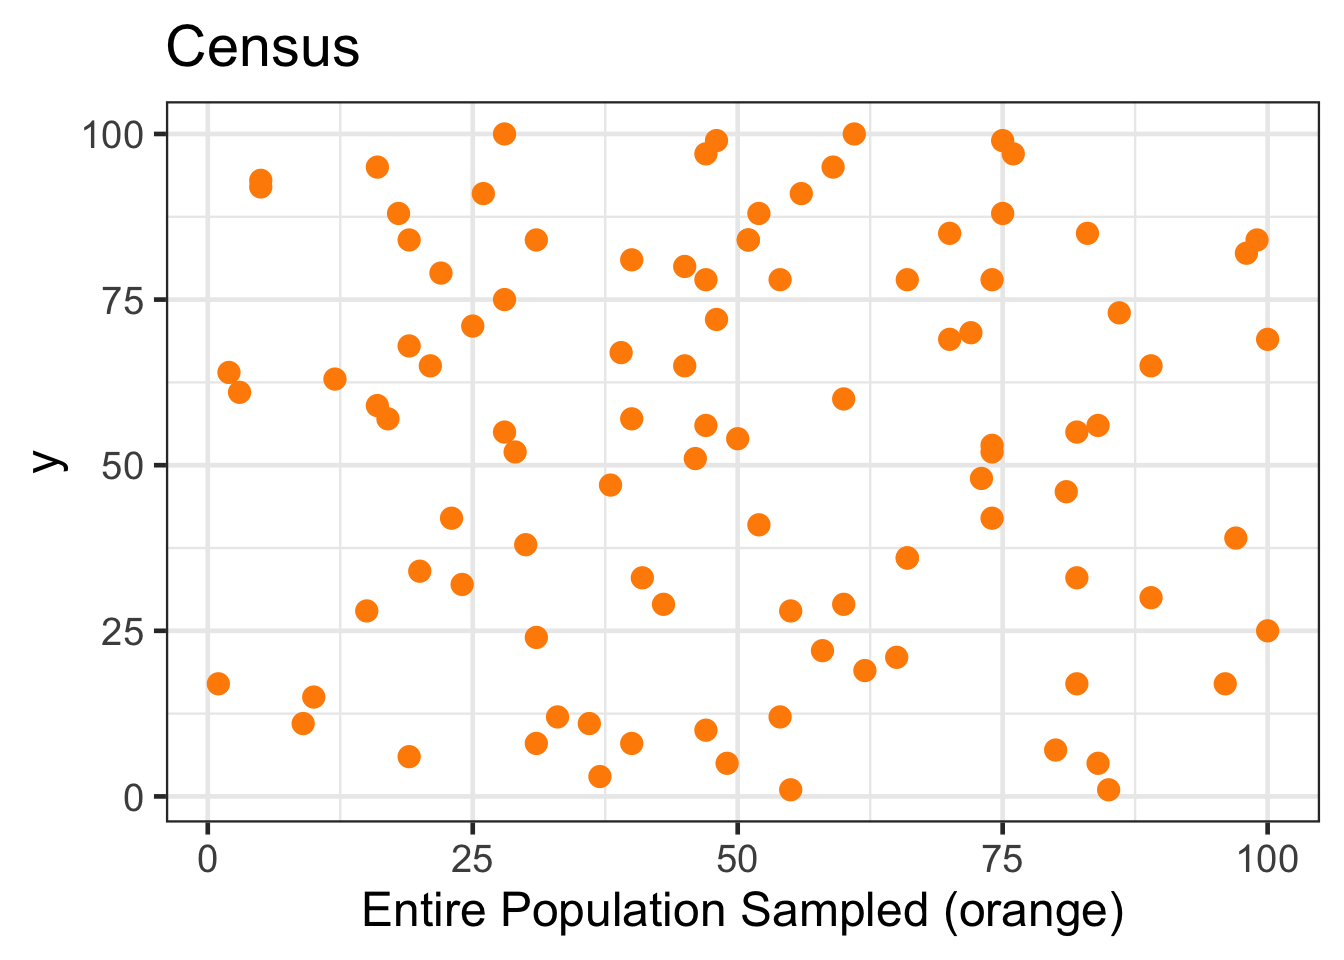
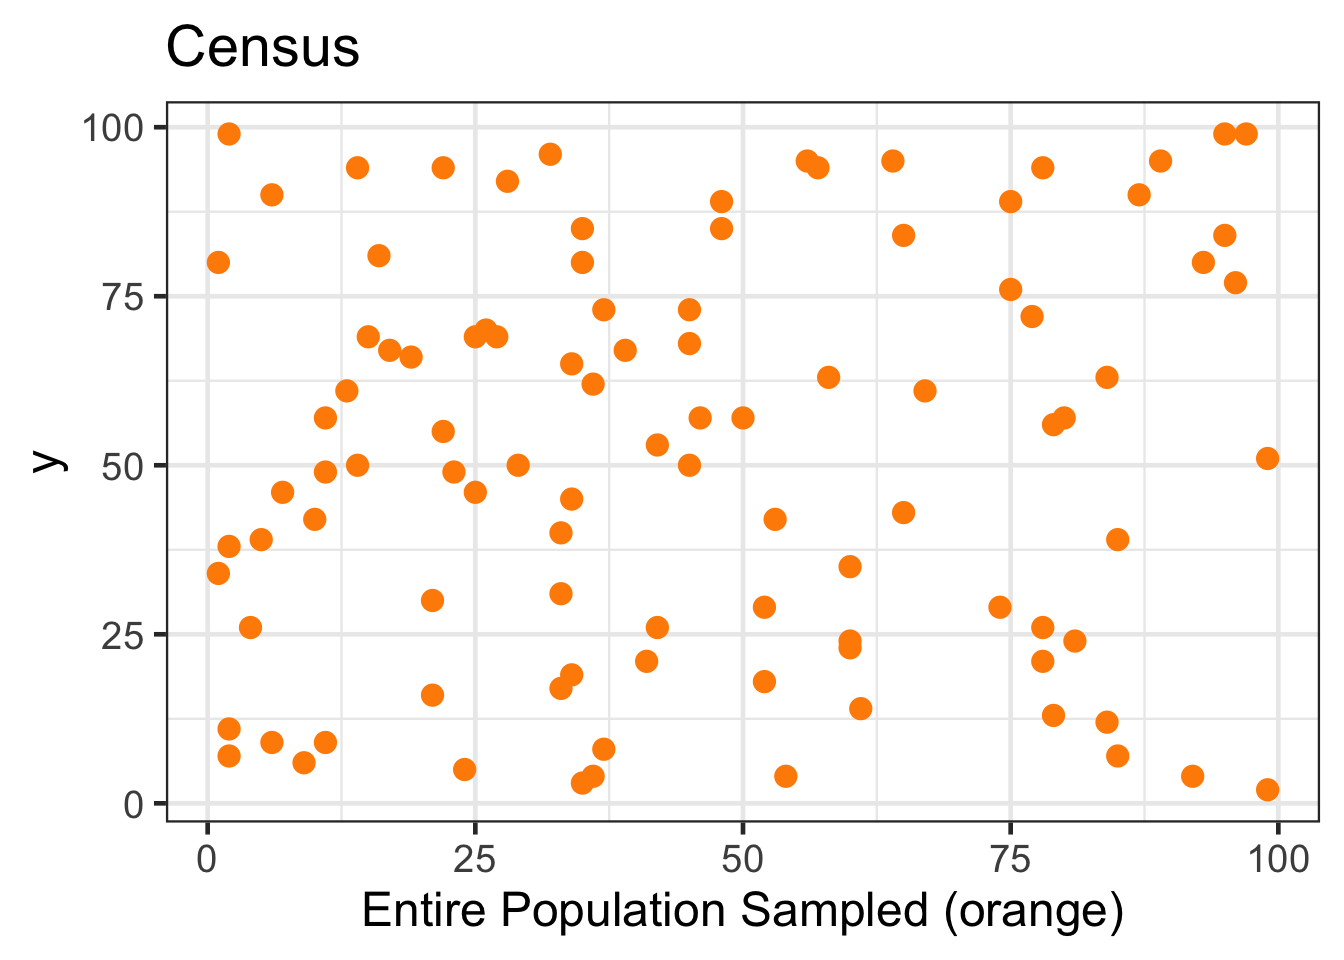
Remove seed set

diff --git a/01_IntroToData.html b/01_IntroToData.html
@@ -114,7 +114,7 @@ pre > code.sourceCode > span > a:first-child::before { text-decoration: underlin
 
 </div>
 <script type="webr-1-contents">
[2 lines of base64/hex data omitted]
 </script>
 </div>
 </div>
@@ -124,7 +124,7 @@ eyJjb2RlIjoid2Vicjo6aW5zdGFsbChcImdyYWRldGhpc1wiLCBxdWlldCA9IFRSVUUpXG5saWJyYXJ5
 
 </div>
 <script type="webr-2-contents">
[2 lines of base64/hex data omitted]
 </script>
 </div>
 </div>
@@ -134,7 +134,7 @@ eyJjb2RlIjoiXG5saWJyYXJ5KGh0bWx0b29scylcbm9rX3Jlc3BvbnNlIDwtIGZ1bmN0aW9uKHJlc3Bv
 
 </div>
 <script type="webr-3-contents">
[2 lines of base64/hex data omitted]
 </script>
 </div>
 </div>
@@ -144,7 +144,7 @@ eyJjb2RlIjoiXG5va19jaGVja2JveCA8LSBmdW5jdGlvbihyZXNwb25zZSwgbikge1xuICBpZiAoaXMu
 
 </div>
 <script type="webr-4-contents">
[2 lines of base64/hex data omitted]
 </script>
 </div>
 </div>
@@ -172,43 +172,43 @@ eyJjb2RlIjoiXG5ub3JtYWxpemVfY2hlY2tib3hfcmVzcG9uc2UgPC0gZnVuY3Rpb24oeCkge1xuICBy
 <tbody>
 <tr class="odd">
 <td style="text-align: right;">7129300520</td>
-<td style="text-align: right;">2</td>
+<td style="text-align: right;">7</td>
 <td style="text-align: right;">221900</td>
 <td style="text-align: right;">1180</td>
 <td style="text-align: right;">5650</td>
 <td style="text-align: right;">0</td>
-<td style="text-align: left;">shingles</td>
+<td style="text-align: left;">vinyl siding</td>
 </tr>
 <tr class="even">
 <td style="text-align: right;">6414100192</td>
-<td style="text-align: right;">9</td>
+<td style="text-align: right;">4</td>
 <td style="text-align: right;">538000</td>
 <td style="text-align: right;">2570</td>
 <td style="text-align: right;">7242</td>
 <td style="text-align: right;">0</td>
-<td style="text-align: left;">shingles</td>
+<td style="text-align: left;">vinyl siding</td>
 </tr>
 <tr class="odd">
 <td style="text-align: right;">5631500400</td>
-<td style="text-align: right;">2</td>
+<td style="text-align: right;">12</td>
 <td style="text-align: right;">180000</td>
 <td style="text-align: right;">770</td>
 <td style="text-align: right;">10000</td>
 <td style="text-align: right;">0</td>
-<td style="text-align: left;">vinyl siding</td>
+<td style="text-align: left;">brick</td>
 </tr>
 <tr class="even">
 <td style="text-align: right;">2487200875</td>
-<td style="text-align: right;">8</td>
+<td style="text-align: right;">11</td>
 <td style="text-align: right;">604000</td>
 <td style="text-align: right;">1960</td>
 <td style="text-align: right;">5000</td>
 <td style="text-align: right;">0</td>
-<td style="text-align: left;">brick</td>
+<td style="text-align: left;">vinyl siding</td>
 </tr>
 <tr class="odd">
 <td style="text-align: right;">1954400510</td>
-<td style="text-align: right;">5</td>
+<td style="text-align: right;">6</td>
 <td style="text-align: right;">510000</td>
 <td style="text-align: right;">1680</td>
 <td style="text-align: right;">8080</td>
@@ -217,7 +217,7 @@ eyJjb2RlIjoiXG5ub3JtYWxpemVfY2hlY2tib3hfcmVzcG9uc2UgPC0gZnVuY3Rpb24oeCkge1xuICBy
 </tr>
 <tr class="even">
 <td style="text-align: right;">7237550310</td>
-<td style="text-align: right;">4</td>
+<td style="text-align: right;">11</td>
 <td style="text-align: right;">1225000</td>
 <td style="text-align: right;">5420</td>
 <td style="text-align: right;">101930</td>
@@ -226,16 +226,16 @@ eyJjb2RlIjoiXG5ub3JtYWxpemVfY2hlY2tib3hfcmVzcG9uc2UgPC0gZnVuY3Rpb24oeCkge1xuICBy
 </tr>
 <tr class="odd">
 <td style="text-align: right;">1321400060</td>
-<td style="text-align: right;">7</td>
+<td style="text-align: right;">5</td>
 <td style="text-align: right;">257500</td>
 <td style="text-align: right;">1715</td>
 <td style="text-align: right;">6819</td>
 <td style="text-align: right;">0</td>
-<td style="text-align: left;">brick</td>
+<td style="text-align: left;">vinyl siding</td>
 </tr>
 <tr class="even">
 <td style="text-align: right;">2008000270</td>
-<td style="text-align: right;">9</td>
+<td style="text-align: right;">4</td>
 <td style="text-align: right;">291850</td>
 <td style="text-align: right;">1060</td>
 <td style="text-align: right;">9711</td>
@@ -244,7 +244,7 @@ eyJjb2RlIjoiXG5ub3JtYWxpemVfY2hlY2tib3hfcmVzcG9uc2UgPC0gZnVuY3Rpb24oeCkge1xuICBy
 </tr>
 <tr class="odd">
 <td style="text-align: right;">2414600126</td>
-<td style="text-align: right;">6</td>
+<td style="text-align: right;">8</td>
 <td style="text-align: right;">229500</td>
 <td style="text-align: right;">1780</td>
 <td style="text-align: right;">7470</td>
@@ -258,7 +258,7 @@ eyJjb2RlIjoiXG5ub3JtYWxpemVfY2hlY2tib3hfcmVzcG9uc2UgPC0gZnVuY3Rpb24oeCkge1xuICBy
 <td style="text-align: right;">1890</td>
 <td style="text-align: right;">6560</td>
 <td style="text-align: right;">0</td>
-<td style="text-align: left;">brick</td>
+<td style="text-align: left;">NA</td>
 </tr>
 </tbody>
 </table>
@@ -712,10 +712,10 @@ Warning
 <li>Results from a sample can be generalized only to a population for which that sample is representative.</li>
 </ul>
 <script type="webr-data">
[2 lines of base64/hex data omitted]
 </script>
 <script type="ojs-module-contents">
[2 lines of base64/hex data omitted]
 </script>
 <div id="exercise-loading-indicator" class="exercise-loading-indicator d-none d-flex align-items-center gap-2">
 <div id="exercise-loading-status" class="d-flex gap-2">
